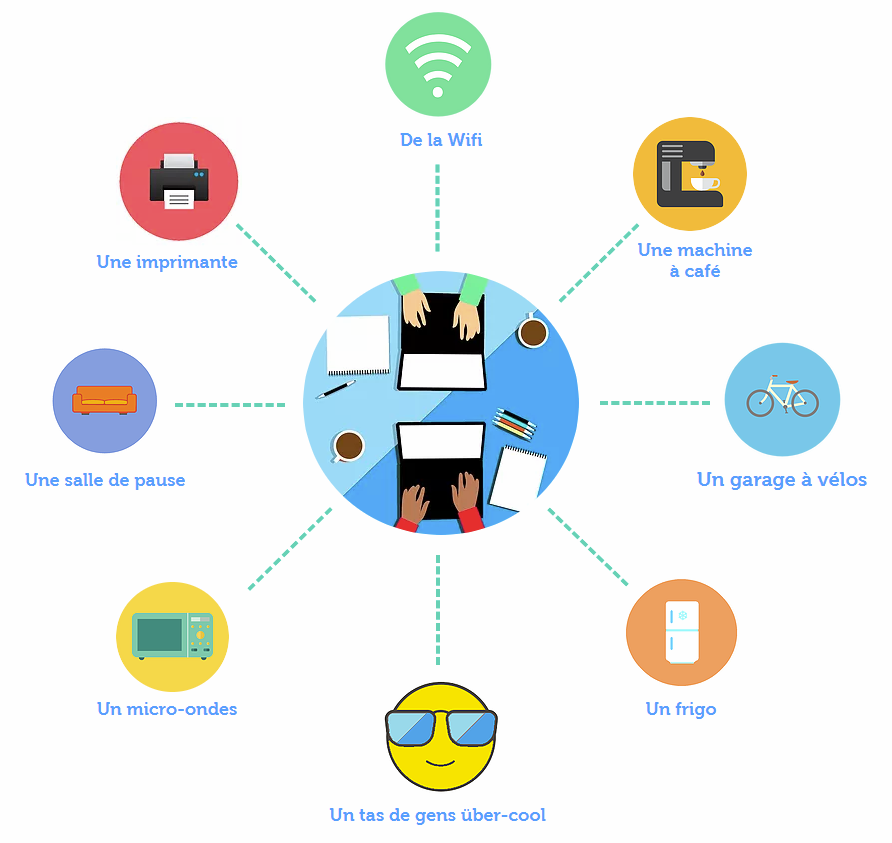
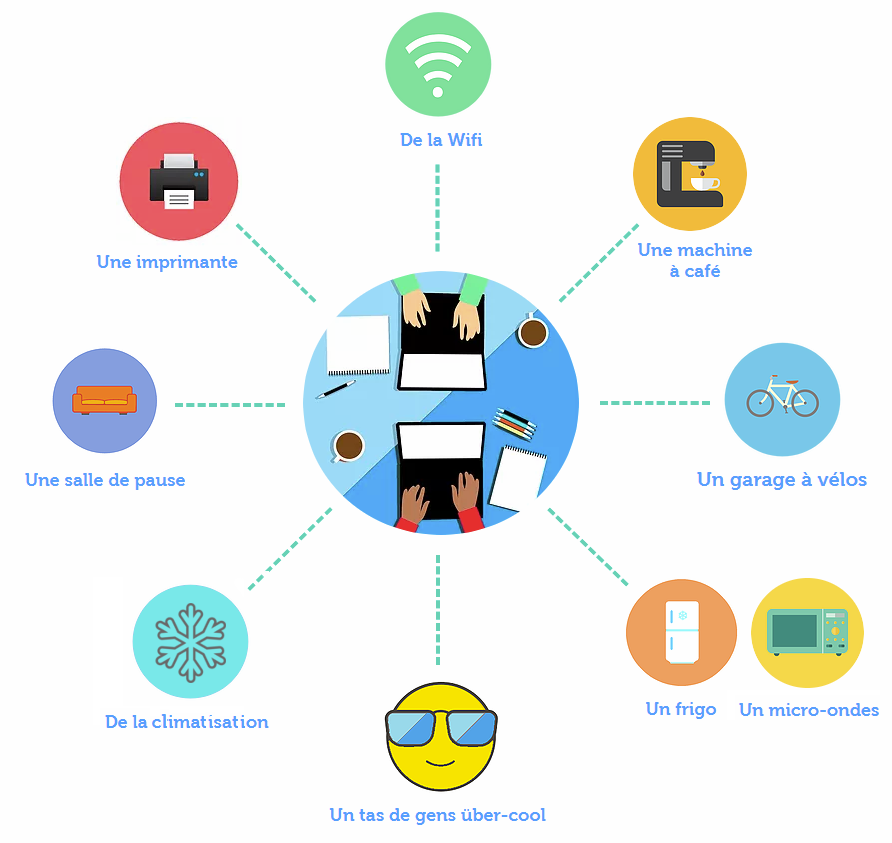
Update description to add air conditioner

Changed region(s): [[0.0908, 0.6785, 0.3027, 0.8636], [0.8173, 0.6785, 0.9989, 0.8636]]

diff --git a/index.html b/index.html
@@ -193,6 +193,7 @@
                     <li>Accès internet WIFI avec connexion fibre</li>
                     <li>Café et Thé à disposition</li>
                     <li>Salle de repos</li>
+                    <li>Espace climatisé</li>
                 </ul>
             </div>
 
@@ -217,7 +218,7 @@
                     <div class="w3-col l4 m4 s12 w3-padding">
                         <h3 class="blue-text">Services</h3>
                         <p>
-                            L'accès internet via Wifi, l'imprimante, le café/thé… tout est inclus dans nos offres. Vous pouvez amener votre casse-croute pour le midi, le mettre dans le réfrigérateur et le réchauffer au micro-ondes.
+                            L'accès internet via Wifi, l'imprimante, le café/thé… tout est inclus dans nos offres. Vous pouvez amener votre casse-croute pour le midi, le mettre dans le réfrigérateur et le réchauffer au micro-ondes. De plus, nous avons la climatisation :)
                         </p>
                     </div>
                     <div class="w3-col l4 m4 s12 w3-padding">
